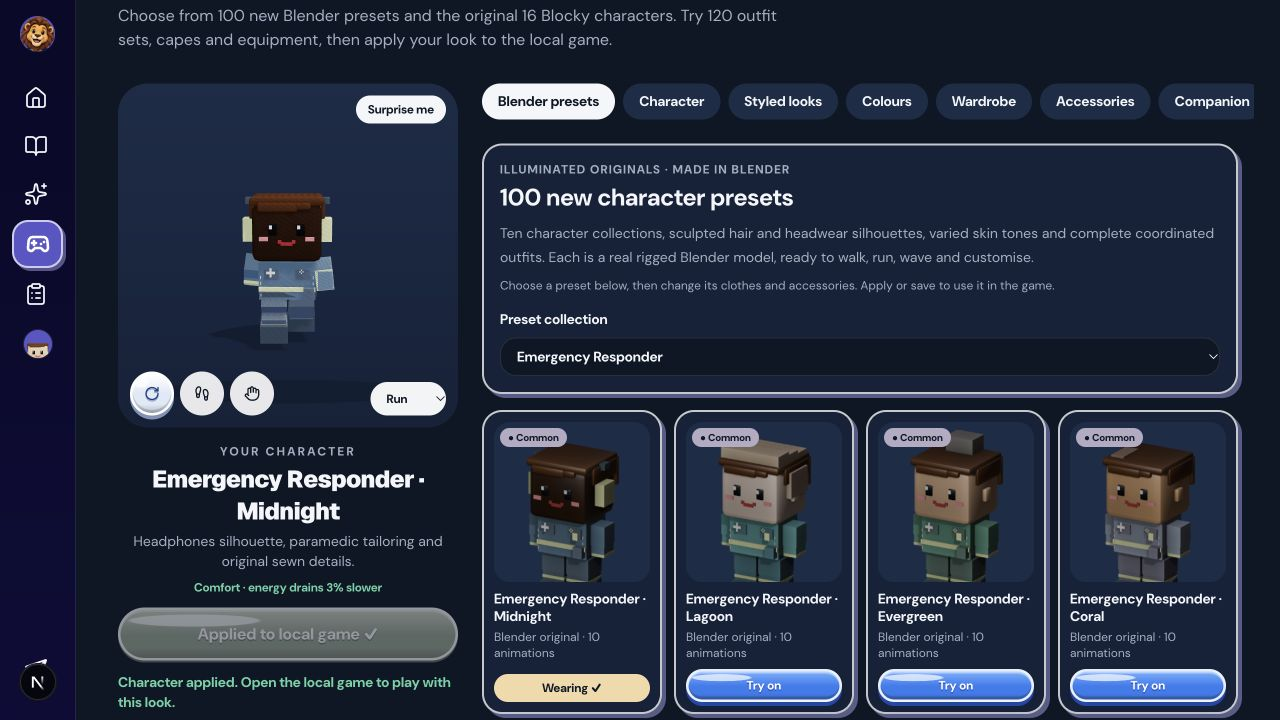
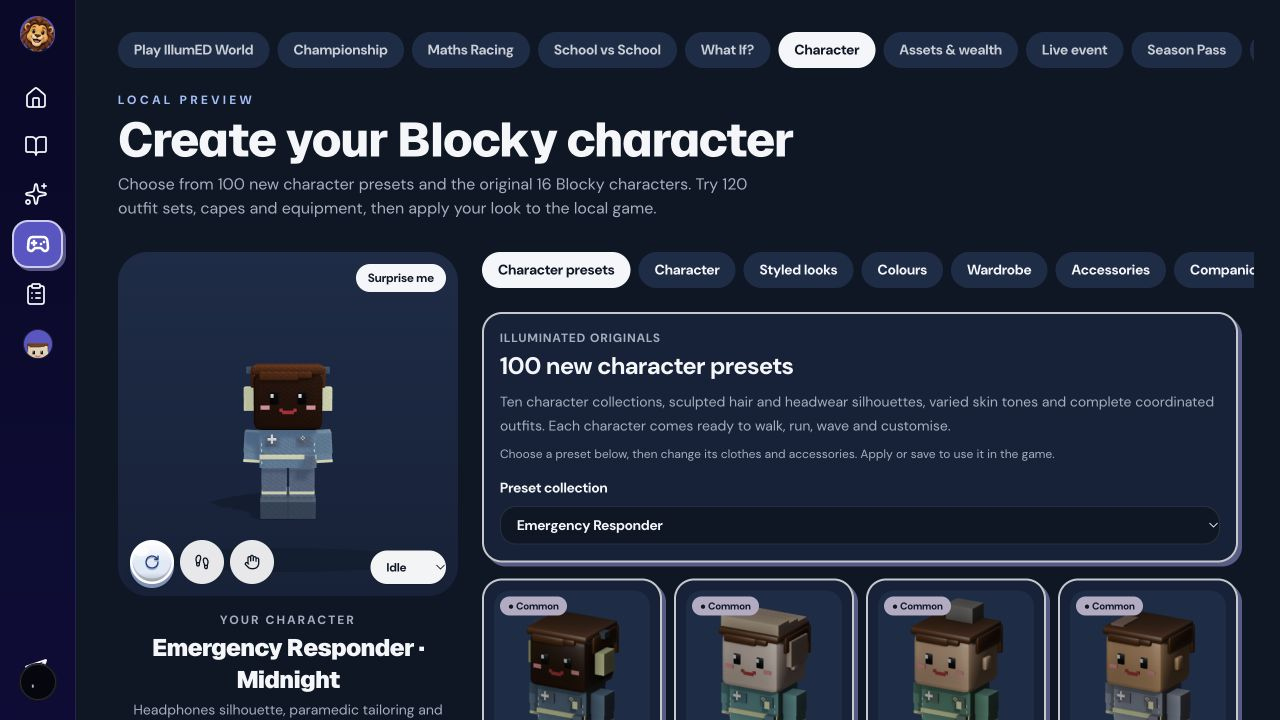
Use character-focused names and copy in the locker

diff --git a/src/components/game/locker.tsx b/src/components/game/locker.tsx
@@ -43,7 +43,7 @@ const PAIRED: Partial<Record<Slot, Slot>> = { hair: "hairColor", top: "topColor"
 
 /** Only controls that affect the supplied character meshes are offered. */
 const SLOT_GROUPS: {group:string;slots:{slot:Slot;label:string}[]}[]=[
- {group:'Blender presets',slots:[{slot:'head',label:'Preset character'}]},
+ {group:'Character presets',slots:[{slot:'head',label:'Preset character'}]},
  {group:'Character',slots:[{slot:'head',label:'Character'}]},
  {group:'Styled looks',slots:[{slot:'top',label:'Styled looks'}]},
  {group:'Colours',slots:[{slot:'topColor',label:'Outfit'},{slot:'bottomColor',label:'Legwear'},{slot:'shoesColor',label:'Footwear'}]},
@@ -163,7 +163,7 @@ export function Locker({
     });
 
   const slots = SLOT_GROUPS.find((g) => g.group === group)!.slots;
-  const items = COSMETICS.filter((c) => c.slot === slot && allowed(slot,c.id) && (slot!=='head'||(group==='Blender presets'?c.id.startsWith('head-preset-'):!c.id.startsWith('head-preset-'))) && (slot !== 'head' || group === 'Blender presets' || collection === 'all' || c.id.includes('-classic-') === (collection === 'classic')) && (group !== 'Blender presets' || presetCollection === 'all' || BLENDER_PRESETS.find(preset=>preset.id===c.id)?.collection === presetCollection) && (slot!=='top'||outfitFamily==='all'||blockyOutfitFor(c.id)?.family===outfitFamily));
+  const items = COSMETICS.filter((c) => c.slot === slot && allowed(slot,c.id) && (slot!=='head'||(group==='Character presets'?c.id.startsWith('head-preset-'):!c.id.startsWith('head-preset-'))) && (slot !== 'head' || group === 'Character presets' || collection === 'all' || c.id.includes('-classic-') === (collection === 'classic')) && (group !== 'Character presets' || presetCollection === 'all' || BLENDER_PRESETS.find(preset=>preset.id===c.id)?.collection === presetCollection) && (slot!=='top'||outfitFamily==='all'||blockyOutfitFor(c.id)?.family===outfitFamily));
   const headView = HEAD_SLOTS.has(slot);
 
   return (
@@ -302,7 +302,7 @@ export function Locker({
           </div>
         )}
 
-        {group === "Blender presets" && <section className="mt-5 rounded-2xl border border-border bg-card p-4" aria-label="100 Blender character presets"><p className="text-xs font-black uppercase tracking-widest text-muted-foreground">IlluminatED Originals · made in Blender</p><h3 className="mt-1 text-2xl font-black">100 new character presets</h3><p className="mt-2 text-sm leading-6 text-muted-foreground">Ten character collections, sculpted hair and headwear silhouettes, varied skin tones and complete coordinated outfits. Each is a real rigged Blender model, ready to walk, run, wave and customise.</p><p className="mt-2 text-xs text-muted-foreground">Choose a preset below, then change its clothes and accessories. Apply or save to use it in the game.</p><label className="mt-4 block text-sm font-bold">Preset collection<select value={presetCollection} onChange={event=>setPresetCollection(event.target.value)} className="mt-2 block w-full rounded-xl border border-border bg-background px-3 py-2"><option value="all">All 100 presets</option>{[...new Set(BLENDER_PRESETS.map(preset=>preset.collection))].map(name=><option key={name} value={name}>{name}</option>)}</select></label></section>}
+        {group === "Character presets" && <section className="mt-5 rounded-2xl border border-border bg-card p-4" aria-label="100 character presets"><p className="text-xs font-black uppercase tracking-widest text-muted-foreground">IlluminatED Originals</p><h3 className="mt-1 text-2xl font-black">100 new character presets</h3><p className="mt-2 text-sm leading-6 text-muted-foreground">Ten character collections, sculpted hair and headwear silhouettes, varied skin tones and complete coordinated outfits. Each character comes ready to walk, run, wave and customise.</p><p className="mt-2 text-xs text-muted-foreground">Choose a preset below, then change its clothes and accessories. Apply or save to use it in the game.</p><label className="mt-4 block text-sm font-bold">Preset collection<select value={presetCollection} onChange={event=>setPresetCollection(event.target.value)} className="mt-2 block w-full rounded-xl border border-border bg-background px-3 py-2"><option value="all">All 100 presets</option>{[...new Set(BLENDER_PRESETS.map(preset=>preset.collection))].map(name=><option key={name} value={name}>{name}</option>)}</select></label></section>}
         {group === "Character" && <div className="mt-5 rounded-2xl border border-border bg-card p-4">
           <div className="flex flex-wrap items-center justify-between gap-3">
             <div><p className="text-xs font-black uppercase tracking-widest text-muted-foreground">The Blocky collection</p><h3 className="mt-1 text-lg font-black">16 source designs. Make one yours.</h3></div>
@@ -310,14 +310,14 @@ export function Locker({
               {([['all','All'],['current','Current'],['classic','Classic']] as const).map(([value,label])=><button key={value} type="button" aria-pressed={collection===value} onClick={()=>setCollection(value)} className={cn('rounded-full px-3 py-2 text-xs font-bold',collection===value?'bg-primary text-primary-foreground':'hover:bg-accent')}>{label}</button>)}
             </div>
           </div>
-          <p className="mt-3 text-sm leading-6 text-muted-foreground">Keep the character&apos;s original face and hair, then choose a Blender-made outfit, colours, cape and equipment.</p>
+          <p className="mt-3 text-sm leading-6 text-muted-foreground">Keep the character&apos;s original face and hair, then choose a custom outfit, colours, cape and equipment.</p>
           <button type="button" onClick={() => { setGroup('Styled looks'); setSlot('top'); }} className="mt-3 rounded-full bg-primary px-4 py-2 text-sm font-bold text-primary-foreground">See looks for {model.name} →</button>
         </div>}
         {group === 'Styled looks' && <section className="mt-5" aria-label="Character styled looks">
           <div className="rounded-2xl border border-border bg-card p-4">
             <p className="text-xs font-black uppercase tracking-widest text-muted-foreground">IlluminatED Originals</p>
             <h3 className="mt-1 text-xl font-black">24 looks. Built around your character.</h3>
-            <p className="mt-2 text-sm leading-6 text-muted-foreground">Coordinated Blender clothing, original labels and accessories. Looks that complement {model.name} appear first. Try one on, then {localPreview ? 'Apply to local game' : 'Save outfit'} when you&apos;re ready.</p>
+            <p className="mt-2 text-sm leading-6 text-muted-foreground">Coordinated clothing, original labels and accessories. Looks that complement {model.name} appear first. Try one on, then {localPreview ? 'Apply to local game' : 'Save outfit'} when you&apos;re ready.</p>
             <p className="mt-2 text-xs text-muted-foreground">Your character, face, hair and companion stay yours. All pieces in these looks are free.</p>
             <div className="mt-4 flex flex-wrap gap-2" aria-label="Look collections">
               {(['all', ...new Set(CHARACTER_STYLES.map(style => style.collection))] as const).map(collection => <button key={collection} type="button" aria-pressed={styleCollection === collection} onClick={() => setStyleCollection(collection)} className={cn('rounded-full border px-3 py-2 text-xs font-bold', styleCollection === collection ? 'border-primary bg-primary text-primary-foreground' : 'border-border hover:bg-secondary')}>{collection === 'all' ? 'All looks' : collection}</button>)}
@@ -348,7 +348,7 @@ export function Locker({
         </section>}
         {slot === 'top' && group !== 'Styled looks' && <section className="mt-4 rounded-2xl border border-border bg-card p-4">
           <h3 className="text-lg font-black">120 outfit sets</h3>
-          <p className="mt-1 text-sm leading-6 text-muted-foreground">12 clothing styles in 10 palettes, made in Blender for this character rig. Each set includes its jacket or top, legwear, footwear and attached details. Uniforms are costumes; they do not grant powers or authority.</p>
+          <p className="mt-1 text-sm leading-6 text-muted-foreground">12 clothing styles in 10 palettes, designed for your character. Each set includes its jacket or top, legwear, footwear and attached details. Uniforms are costumes; they do not grant powers or authority.</p>
           <label className="mt-3 block text-xs font-bold">Clothing style
             <select aria-label="Clothing style" value={outfitFamily} onChange={e=>setOutfitFamily(e.target.value)} className="ml-3 rounded-full border border-border bg-background px-3 py-2">
               <option value="all">All styles</option>{[...new Set(BLOCKY_OUTFITS.map(o=>o.family))].map(family=><option key={family} value={family}>{family[0].toUpperCase()+family.slice(1)}</option>)}
@@ -421,7 +421,7 @@ export function Locker({
                   </div>
                   <p className="mt-2 text-sm leading-tight font-bold">{item.id==="hat-none"?"Original headwear":clothingName(item.id,item.name)}</p>
                   {outfit && <><p className="mt-1 text-xs text-muted-foreground">{outfit.description}</p><p className="mt-1 text-[11px] font-bold text-ink-mint">{outfitPerks(item.id).label}</p></>}
-                  {item.slot === 'head' && <p className="mt-1 text-xs text-muted-foreground">{item.id.startsWith('head-preset-')?'Blender original':item.id.includes('-classic-')?'Classic design':'Current design'} · 10 animations</p>}
+                  {item.slot === 'head' && <p className="mt-1 text-xs text-muted-foreground">{item.id.startsWith('head-preset-')?'Original preset':item.id.includes('-classic-')?'Classic design':'Current design'} · 10 animations</p>}
                   {item.set && <p className="mt-0.5 text-[11px] text-muted-foreground">{setName(item.set)}</p>}
                   <div className="mt-auto pt-2">
                     {wearing ? (

diff --git a/src/app/about/page.tsx b/src/app/about/page.tsx
@@ -108,8 +108,7 @@ export default function AboutPage() {
         <p className="text-muted-foreground max-w-2xl leading-relaxed">
           The city, buildings, vehicles, trees and characters in IlluminatED&apos;s game world are built from{" "}
           <ExternalLink href="https://kenney.nl">Kenney</ExternalLink>&apos;s free CC0 3D kits (City Kit Commercial,
-          City Kit Suburban, City Kit Roads and Nature Kit), rendered and styled by us in
-          Blender. Thank you, Kenney.
+          City Kit Suburban, City Kit Roads and Nature Kit), rendered and styled by our team. Thank you, Kenney.
         </p>
         <p className="text-muted-foreground mt-4 max-w-2xl leading-relaxed">
           Selected shops and offices are adapted from <ExternalLink href="https://sketchfab.com/3d-models/low-poly-city-pack-c693dae1fe06403ea1e0bcf4e9db108a">Low Poly City-Pack by medmgames</ExternalLink> and <ExternalLink href="https://sketchfab.com/3d-models/low-poly-city-game-ready-c7e3a158515c4e9da31ae52c30403cef">Low Poly City Game-Ready by costoWRLD</ExternalLink>, licensed under <ExternalLink href="https://creativecommons.org/licenses/by/4.0/">CC BY 4.0</ExternalLink>. We extracted individual buildings and adjusted their scale and signs.

diff --git a/src/app/games/locker/page.tsx b/src/app/games/locker/page.tsx
@@ -13,7 +13,7 @@ export default async function LockerPage() {
       <div id="locker" className="mx-auto max-w-6xl px-4 pt-6 pb-10">
         <p className="text-xs font-black tracking-[0.3em] text-ink-lilac uppercase">Local preview</p>
         <h1 className="arcade-display mt-2 text-4xl md:text-5xl">Create your Blocky character</h1>
-        <p className="mt-2 max-w-2xl text-muted-foreground">Choose from 100 new Blender presets and the original 16 Blocky characters. Try 120 outfit sets, capes and equipment, then apply your look to the local game.</p>
+        <p className="mt-2 max-w-2xl text-muted-foreground">Choose from 100 new character presets and the original 16 Blocky characters. Try 120 outfit sets, capes and equipment, then apply your look to the local game.</p>
         <div className="mt-8">
           <Locker initialAvatar={DEFAULT_AVATAR} initialOwned={COSMETICS.filter(isFree).map((item) => item.id)} initialClout={0} canSave={false} localPreview />
         </div>

diff --git a/docs/gamification/blender-character-presets.md b/docs/gamification/blender-character-presets.md
@@ -4,7 +4,7 @@
 
 The collection has ten character groups and ten coordinated variations in each: city creative, campus coder, studio founder, workshop maker, track captain, community officer, pharmacy scientist, emergency responder, design student and trail explorer. Ten hair/headwear silhouettes include quiffs, curls, ponytails, braids, bobs, caps, beanies, headphones, coils and buns; eight skin tones and varied clothing palettes are baked into the models. These are presets built from a shared modular rig, not 100 independently sculpted body meshes.
 
-In the Locker, **Blender presets** is a separate selection group. Applying one changes the character and its coordinated free outfit, then uses the existing explicit save/apply step. Further wardrobe choices replace the preset's baked clothing while preserving its head, hair and bone attachments. Failed garment loads retain the baked outfit. Body scale is measured before replacing clothing, keeping player height consistent.
+In the Locker, **Character presets** is a separate selection group. Applying one changes the character and its coordinated free outfit, then uses the existing explicit save/apply step. Further wardrobe choices replace the preset's baked clothing while preserving its head, hair and bone attachments. Failed garment loads retain the baked outfit. Body scale is measured before replacing clothing, keeping player height consistent.
 
 Runtime animation reuses the supplied character's ten clips on the compatible rig: idle, walk, run, jump, fall, wave, punch, death, cheer and dance. The preset GLBs contain the compatible skeleton rather than duplicating the animation data 100 times.
 
